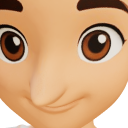
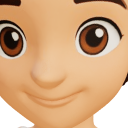
3D-forsøg: Spids er en almindelig spids næse

diff --git a/3d-forsoeg/index.html b/3d-forsoeg/index.html
@@ -686,7 +686,8 @@ function drawPynt(o) { const P = tex.pynt; if (!P || !pyntNow.length) return;
 // face round it. Dyrenæse: a dark, shiny animal's nose painted on its tip. Klovn: a shiny red ball on its tip, held by
 // the head as the hair is)
 const NOSES = [['naese-naturlig', 'Naturlig'], ['naese-lille', 'Lille', { s: [.7, .8, .6] }], ['naese-bred', 'Bred', { s: [1.55, 1, 1.08] }],
-  ['naese-lang', 'Spids', { s: [.82, 1.15, 1.8], down: .02 }], ['naese-dyr', 'Dyrenæse', { animal: true }], ['naese-klovn', 'Klovn', { clown: true }]];
+  // (Spids an ordinary pointed nose - at 1.8 outwards it was a Pinocchio's)
+  ['naese-lang', 'Spids', { s: [.88, 1.06, 1.3], down: .01 }], ['naese-dyr', 'Dyrenæse', { animal: true }], ['naese-klovn', 'Klovn', { clown: true }]];
 let noseNow = 'naese-naturlig';
 function setNose(name) { noseNow = name; redrawBody(); renderStyles(); }
 function setupNose(body, P, n, cx, cy, cz, apart) {
